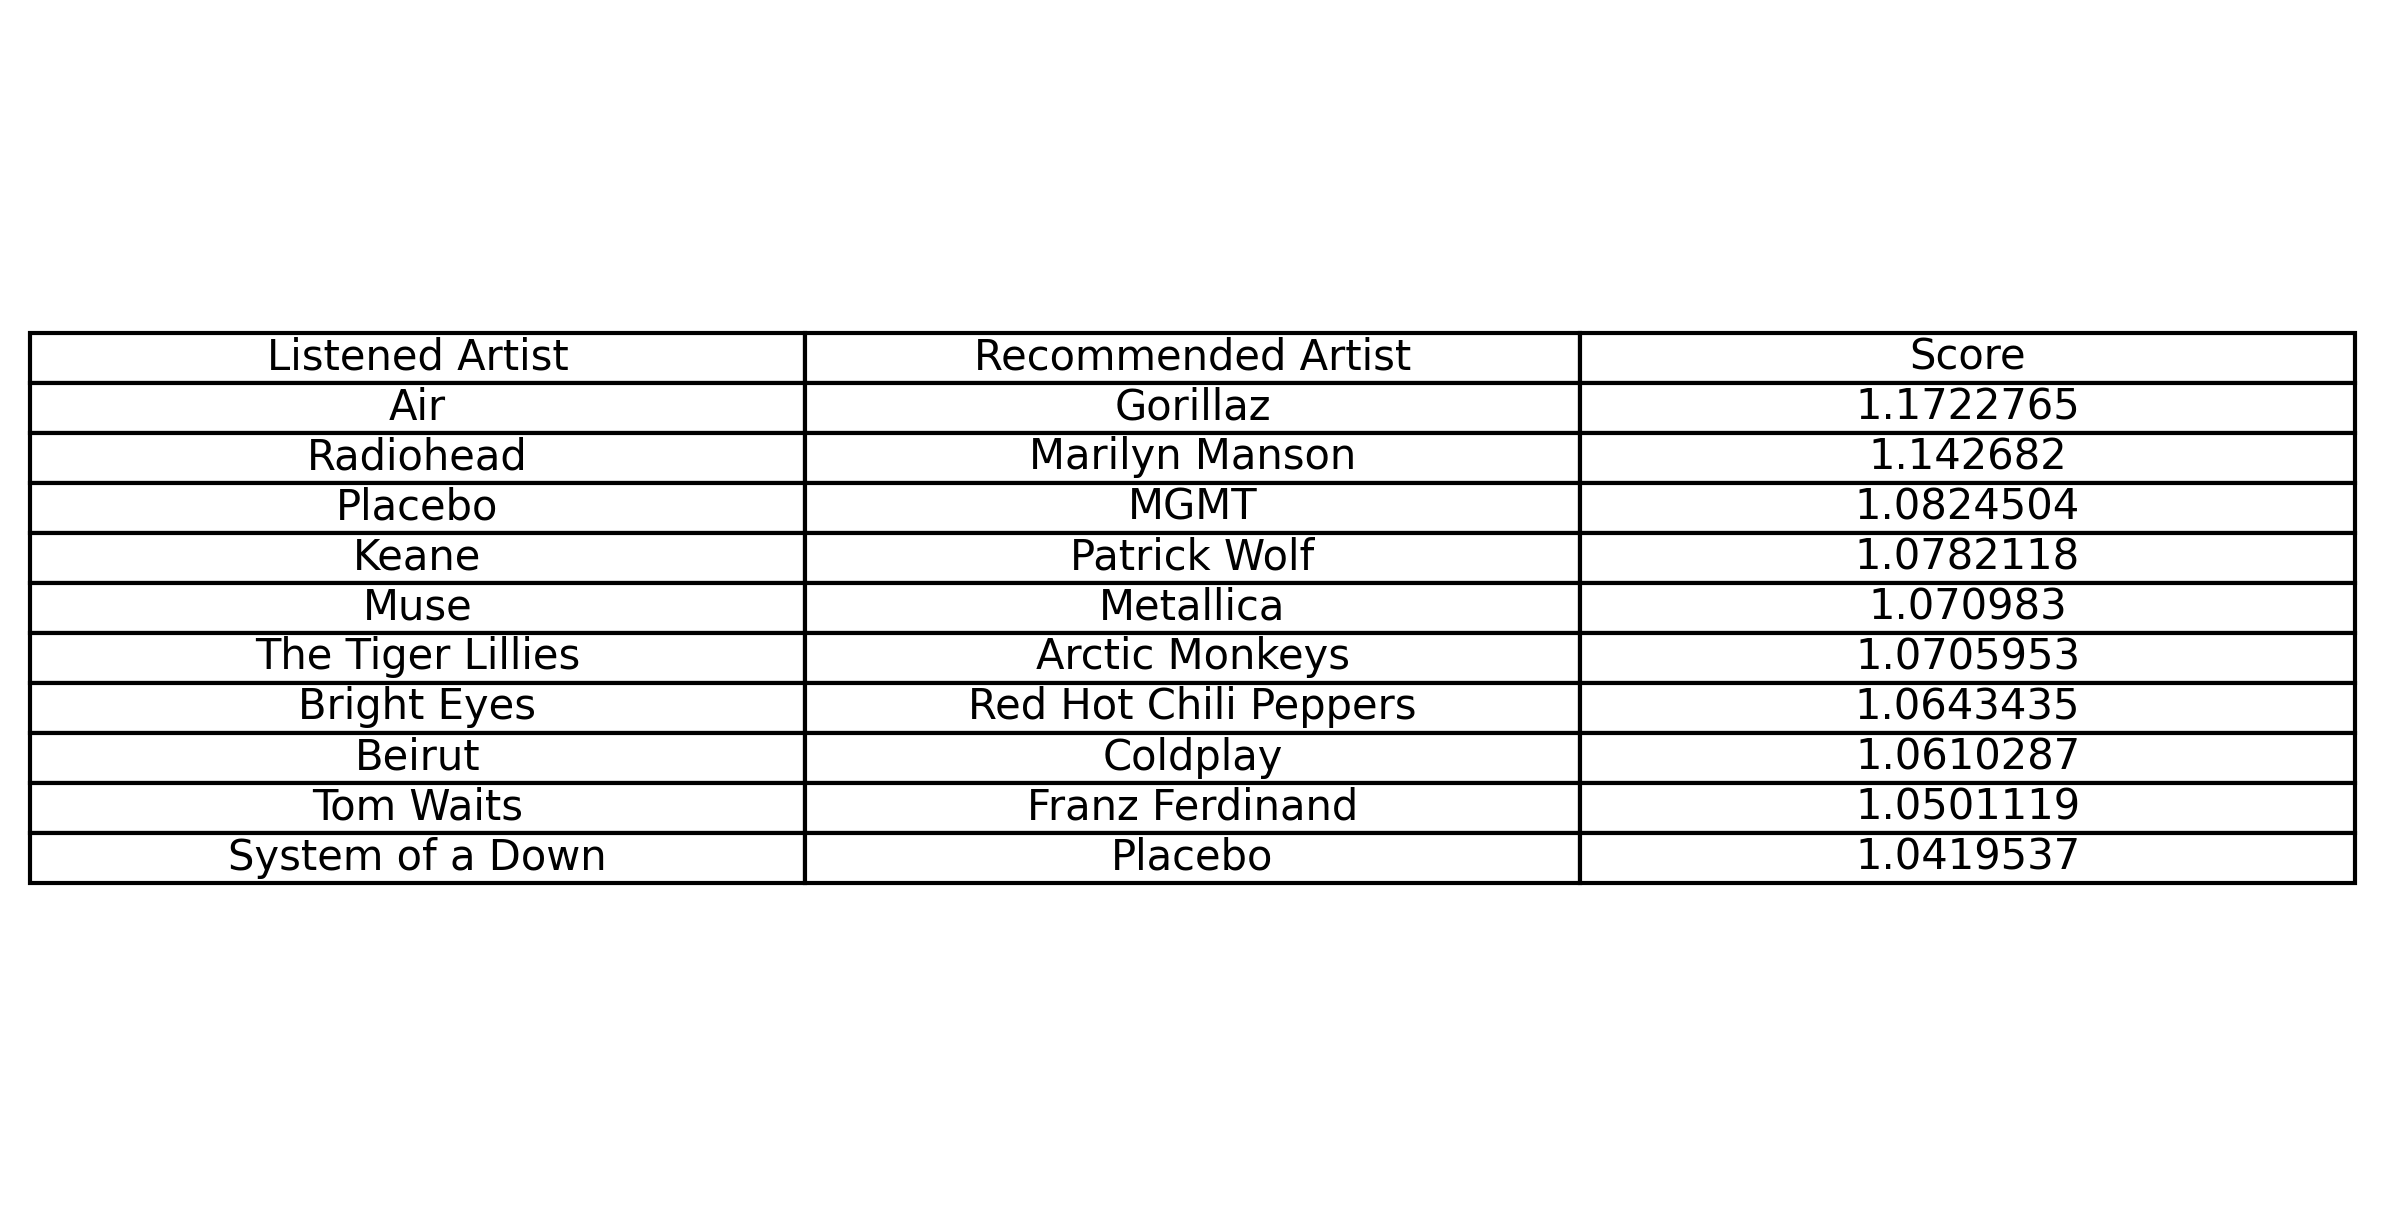
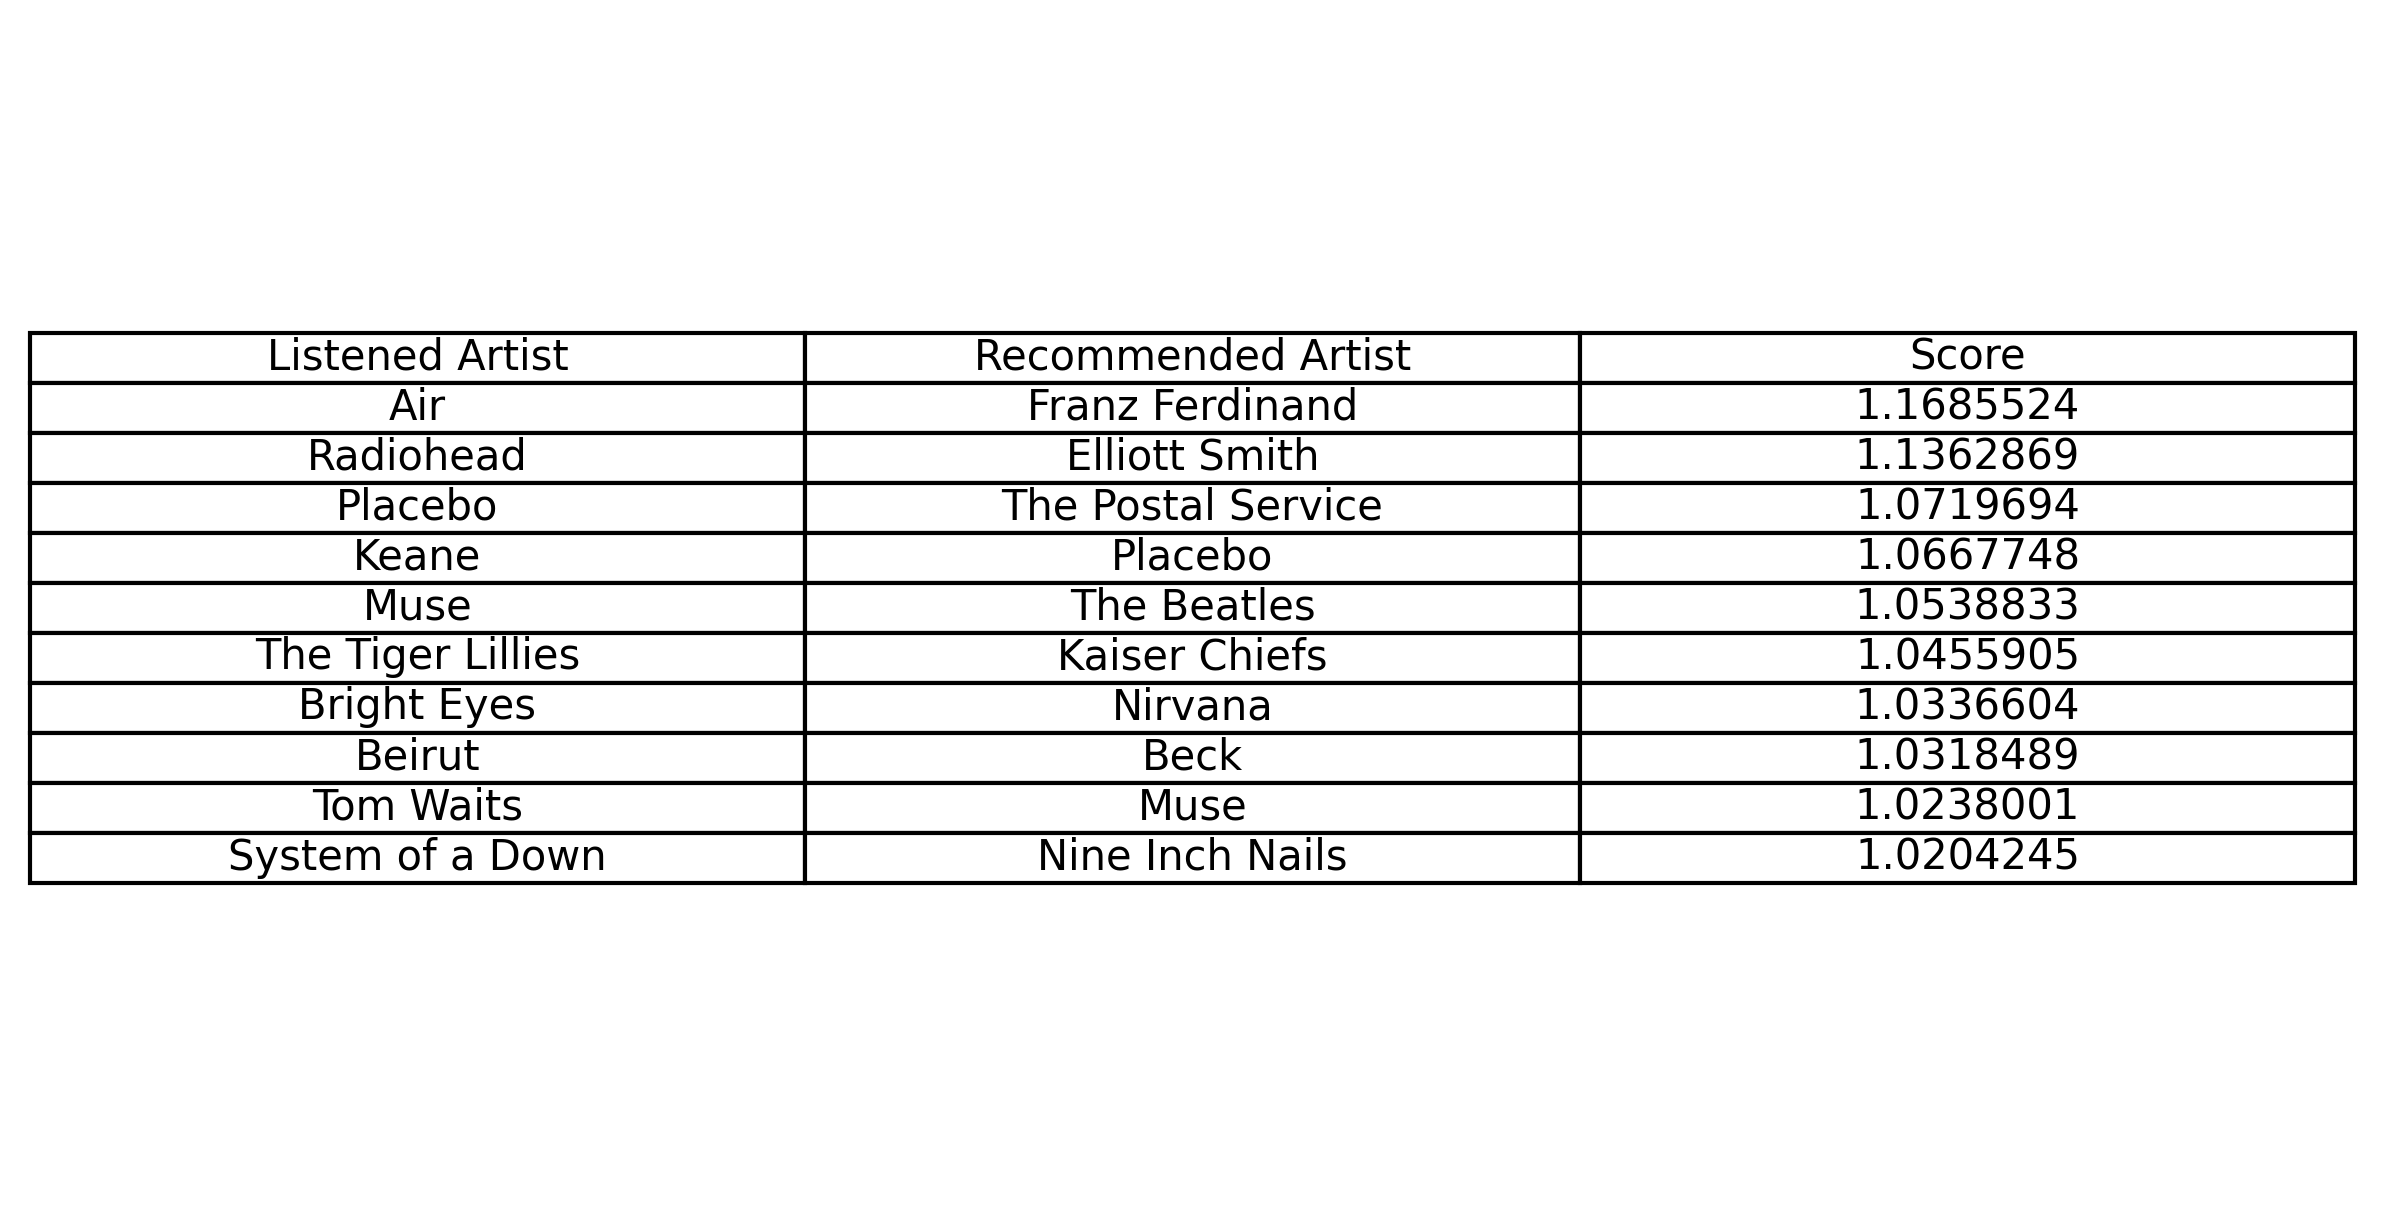
feature: created generate result function

Changed region(s): [[0.4034, 0.3045, 0.5895, 0.7309], [0.7757, 0.3045, 0.8688, 0.7309]]

diff --git a/music-recommender/src/recommender.py b/music-recommender/src/recommender.py
@@ -52,12 +52,9 @@ class ImplicitRecommender:
         ]
         return artists, scores
 
-
-if __name__ == "__main__":
-    
+def generate_results(user_index: int, recommend_limit: int = 10):
     # 2 - 2100
-    user_index = 5  # specify the user ID 
-
+    
     # load user artists matrix
     user_artists = load_user_artists(Path("../dataset/user_artists.dat"))
 
@@ -73,7 +70,7 @@ if __name__ == "__main__":
     # instantiate recommender, fit, and recommend
     recommender = ImplicitRecommender(artist_retriever, implicit_model)
     recommender.fit(user_artists)
-    artists, scores = recommender.recommend(user_index, user_artists, n=10)
+    artists, scores = recommender.recommend(user_index, user_artists, n=recommend_limit)
     
     # store the top 10 artists that the user has listened to
     top_10_artists = []
@@ -83,7 +80,7 @@ if __name__ == "__main__":
     top_10_scores = []
     # store the top 10 artists that the user has listened to
     user_artists_indices = user_artists[user_index].nonzero()[1]
-    for artist_id in user_artists_indices[:10]:  # limit to top 10
+    for artist_id in user_artists_indices[:recommend_limit]:  # limit to top 10
         artist_name = artist_retriever.get_artist_name_from_id(artist_id)
         top_10_artists.append(artist_name)
         # print(artist_name)
@@ -115,4 +112,6 @@ if __name__ == "__main__":
         writer = csv.writer(file)
         writer.writerow(["Listened Artist", "Recommended Artist", "Score"])
         writer.writerows(table_data)
-   
+
+if __name__ == "__main__":
+    generate_results(user_index=5, recommend_limit=10)
